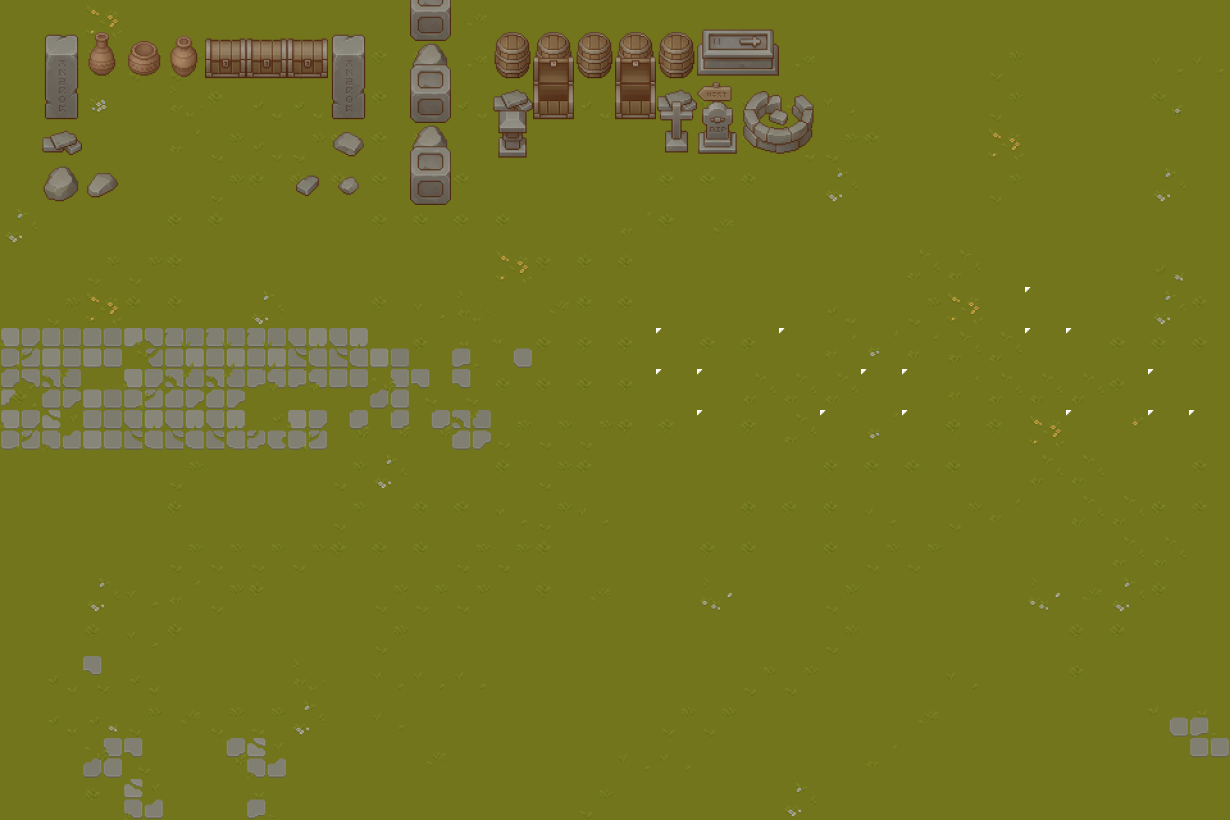
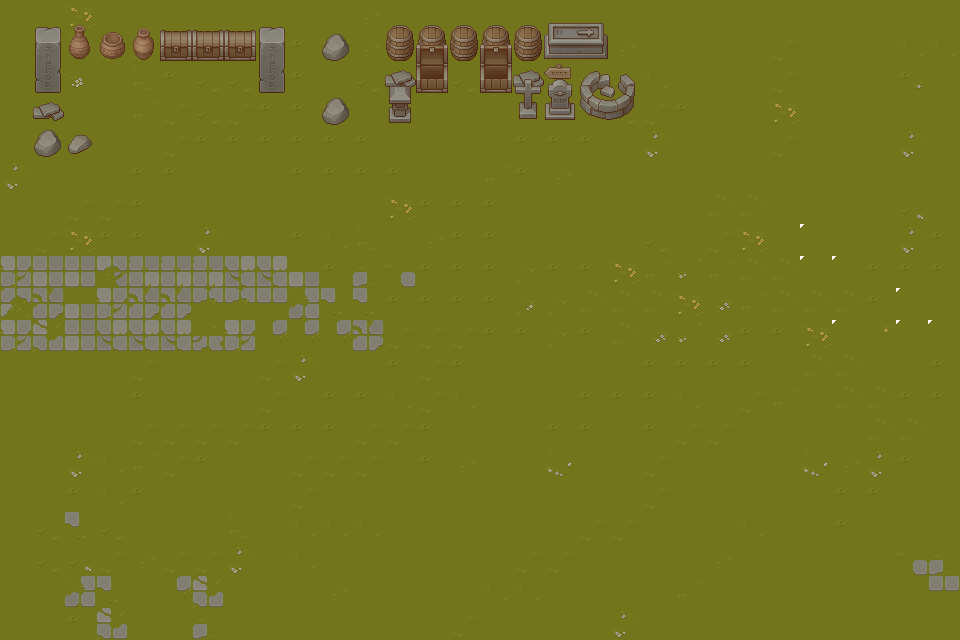
Added new armours, added shop sprites, made one shop sell armor, added armor sprites

Changed region(s): [[0.2188, 0.0, 0.375, 0.25], [0.25, 0.1562, 0.3125, 0.1875]]

diff --git a/src/main/java/com/zegline/rpggame/ChatGame.java b/src/main/java/com/zegline/rpggame/ChatGame.java
@@ -1,10 +1,7 @@
 package main.java.com.zegline.rpggame;
 
 import main.java.com.zegline.rpggame.GameEntity.Bullets.EnemyBulletFactory;
-import main.java.com.zegline.rpggame.GameEntity.Enemies.BaseEnemy;
-import main.java.com.zegline.rpggame.GameEntity.Enemies.BasicEnemy;
-import main.java.com.zegline.rpggame.GameEntity.Enemies.ChargingEnemy;
-import main.java.com.zegline.rpggame.GameEntity.Enemies.EnemyFactory;
+import main.java.com.zegline.rpggame.GameEntity.Enemies.*;
 import main.java.com.zegline.rpggame.GameEntity.GameEntity;
 import main.java.com.zegline.rpggame.GameEntity.Particle;
 import main.java.com.zegline.rpggame.GameEntity.ShopOwner;
@@ -81,19 +78,34 @@ public class ChatGame extends JFrame {
         URL mapurl = classLoader.getResource("level1.map");
         World.loadMap(mapurl.getPath());
         max = new UserAvatar(Color.PINK, 64, screenHeight-140,3, 32, new String[]{"0","1","2","3","4","5","6","7","8","9","10","11","12","13","14","15"}, 16);
-        BasicGun basicGun = new BasicGun("simplegun", 69);
-        EnhancedGun enhancedGun = new EnhancedGun("enhancedgun", 120);
-        ShotGun shotGun = new ShotGun("shotgun", 150);
-        RocketGun rocketGun = new RocketGun("rpg", 100);
+        BasicGun basicGun = new BasicGun("simplegun", 100);
+        EnhancedGun enhancedGun = new EnhancedGun("enhancedgun", 500);
+        ShotGun shotGun = new ShotGun("shotgun", 700);
+        RocketGun rocketGun = new RocketGun("rpg", 1000);
+
+
+
         //UserAvatar.items_equipped.add(basicGun);
         //UserAvatar.items_equipped.add(enhancedGun);
         //UserAvatar.items_equipped.add(shotGun);
-        //new ShootingEnemy(1000,1800,1);
+        //new ShootingEnemy(1000,800,1);
         //new BasicEnemy(500,500,2);
         //new ChargingEnemy(1000,500,1);
 
 
         max.equipArmor(new BasicArmor("basicarmor", 100));
+
+        BasicArmor weakArmour = new BasicArmor("basicarmor", 100);
+        IronArmor ironArmor = new IronArmor("ironarmor", 400);
+        DiamondArmor strongArmour = new DiamondArmor("diamondarmour", 1000);
+        HellArmor hellArmor = new HellArmor("hellarmor", 2000);
+
+        List<Item> armourList = new ArrayList<>();
+        armourList.add(weakArmour);
+        armourList.add(ironArmor);
+        armourList.add(strongArmour);
+        armourList.add(hellArmor);
+
         UserAvatar.items_equipped.add(basicGun);
         UserAvatar.item_in_hand = basicGun;
 
@@ -104,8 +116,8 @@ public class ChatGame extends JFrame {
         WeaponsList.add(rocketGun);
         //a.add(new BasicGun("basegun", 69, "basic_gun.png"));
         //a.add(new Item("arfifteen", 500));
-        new ShopOwner(110, 90, 100, "Heyo", WeaponsList, "basic_shopowner.jpg");
-        new ShopOwner(550, 100, 150, "Captain", WeaponsList, "wanderer.jpg");
+        new ShopOwner(90, 90, 100, "Ayyo come buy some guns", WeaponsList, "Shop1.png");
+        new ShopOwner(550, 100, 100, "Need any armour (loser)", armourList, "Shop2.png");
 
         currentWave = 0;
         waveOngoing = false;

diff --git a/src/main/java/com/zegline/rpggame/Items/HellArmor.java b/src/main/java/com/zegline/rpggame/Items/HellArmor.java
@@ -1,0 +1,14 @@
+package main.java.com.zegline.rpggame.Items;
+
+public class HellArmor extends BaseArmor{
+    public HellArmor(String name, int cost) {
+        super(name, cost, "hellarmor.png");
+        //Why is there an intial boost, i was thinking that
+        // amrours dont stack and you have to buy a new one once
+        // the old one breaks?
+        // if you buy a new one, it replaces the old one
+        this.initialArmorBoost = 10;
+        this.armorHealth = 100;
+        this.armorMultiplier = 0.3;
+    }
+}

diff --git a/src/main/java/com/zegline/rpggame/Items/IronArmor.java b/src/main/java/com/zegline/rpggame/Items/IronArmor.java
@@ -1,0 +1,14 @@
+package main.java.com.zegline.rpggame.Items;
+
+public class IronArmor extends BaseArmor{
+    public IronArmor(String name, int cost) {
+        super(name, cost, "ironarmor.png");
+        //Why is there an intial boost, i was thinking that
+        // amrours dont stack and you have to buy a new one once
+        // the old one breaks?
+        // if you buy a new one, it replaces the old one
+        this.initialArmorBoost = 10;
+        this.armorHealth = 50;
+        this.armorMultiplier = 0.8;
+    }
+}

diff --git a/src/main/java/com/zegline/rpggame/GameEntity/ShopOwner.java b/src/main/java/com/zegline/rpggame/GameEntity/ShopOwner.java
@@ -27,7 +27,7 @@ public class ShopOwner extends GameEntity {
     @Override
     public void draw(Graphics g) {
         //g.fillOval((int) x, (int) y, radius, radius);
-        g.drawImage(texture, (int) x + 40, (int) y + 40, 80, 80, null);
+        g.drawImage(texture, (int) x + 40, (int) y + 40, 60, 60, null);
 
         if (ChatGame.max.currentVendor == this) {
             g.setFont(retroFont.deriveFont(24.0f));

diff --git a/src/main/java/com/zegline/rpggame/Items/DiamondArmor.java b/src/main/java/com/zegline/rpggame/Items/DiamondArmor.java
@@ -4,7 +4,7 @@ public class DiamondArmor extends BaseArmor{
     public DiamondArmor(String name, int cost) {
         super(name, cost, "diamond_armor.png");
         this.initialArmorBoost = 40;
-        this.armorHealth = 20;
-        this.armorMultiplier = 0.7;
+        this.armorHealth = 75;
+        this.armorMultiplier = 0.5;
     }
 }
